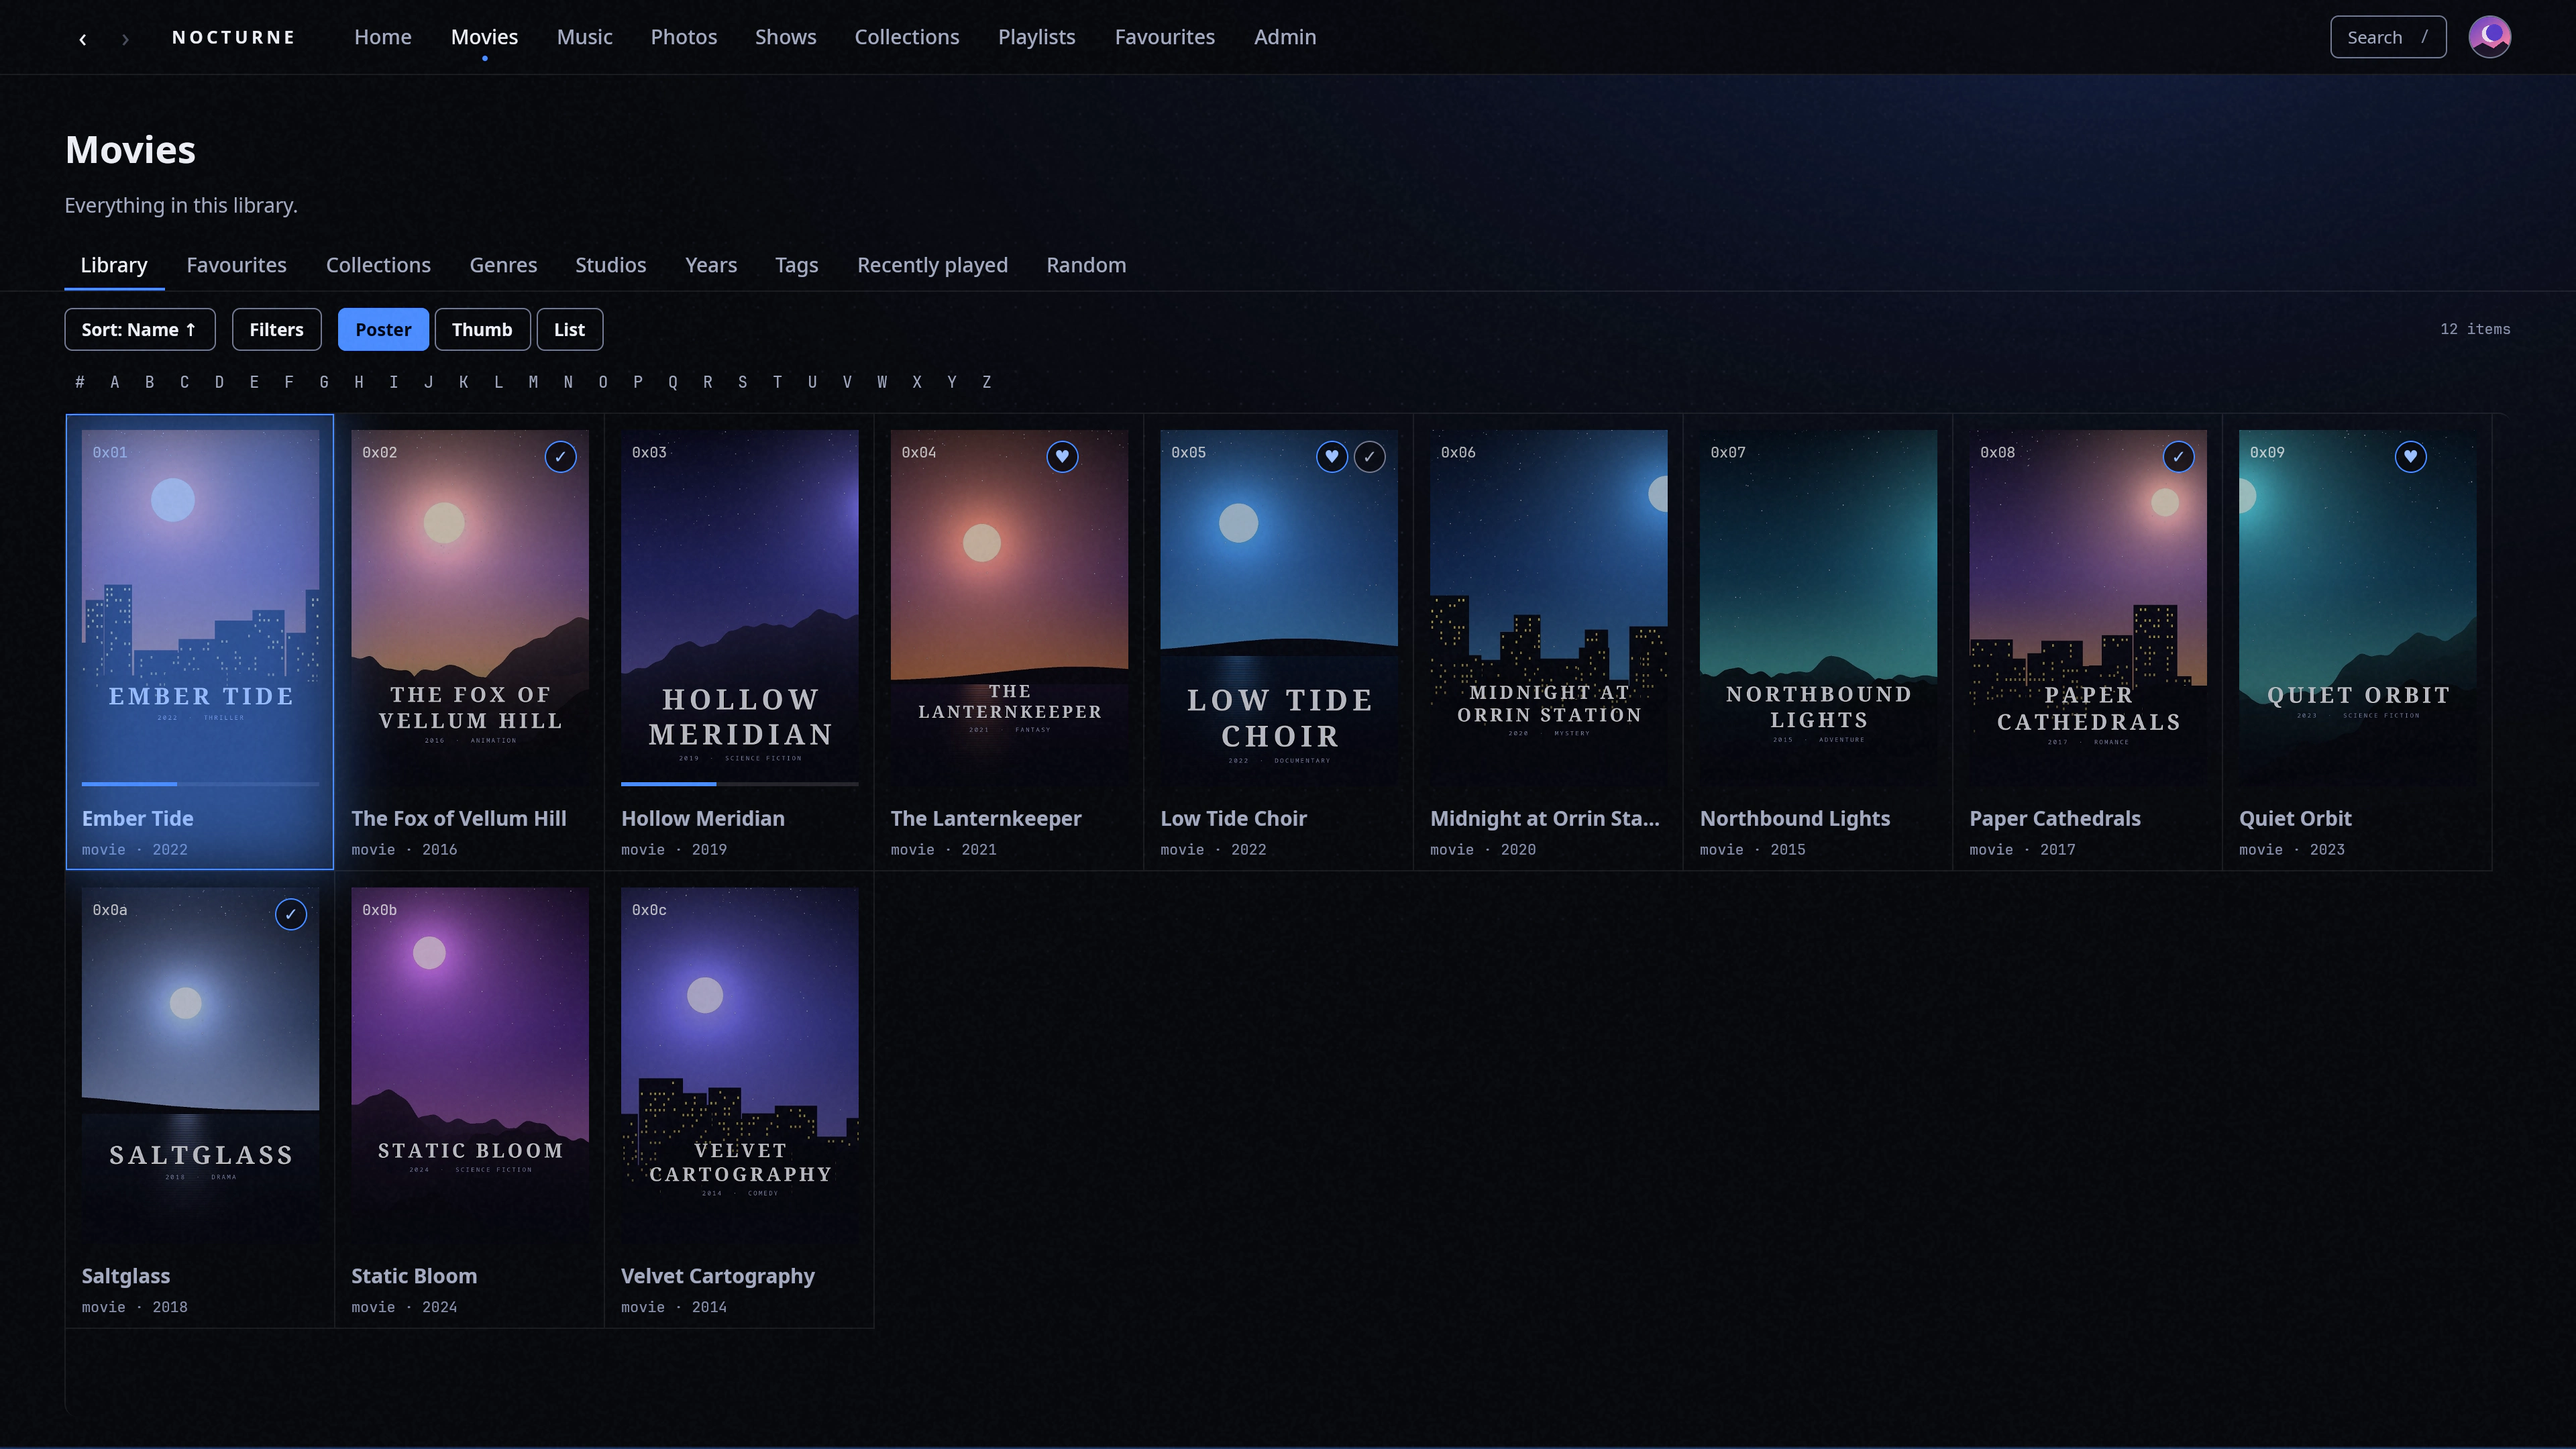
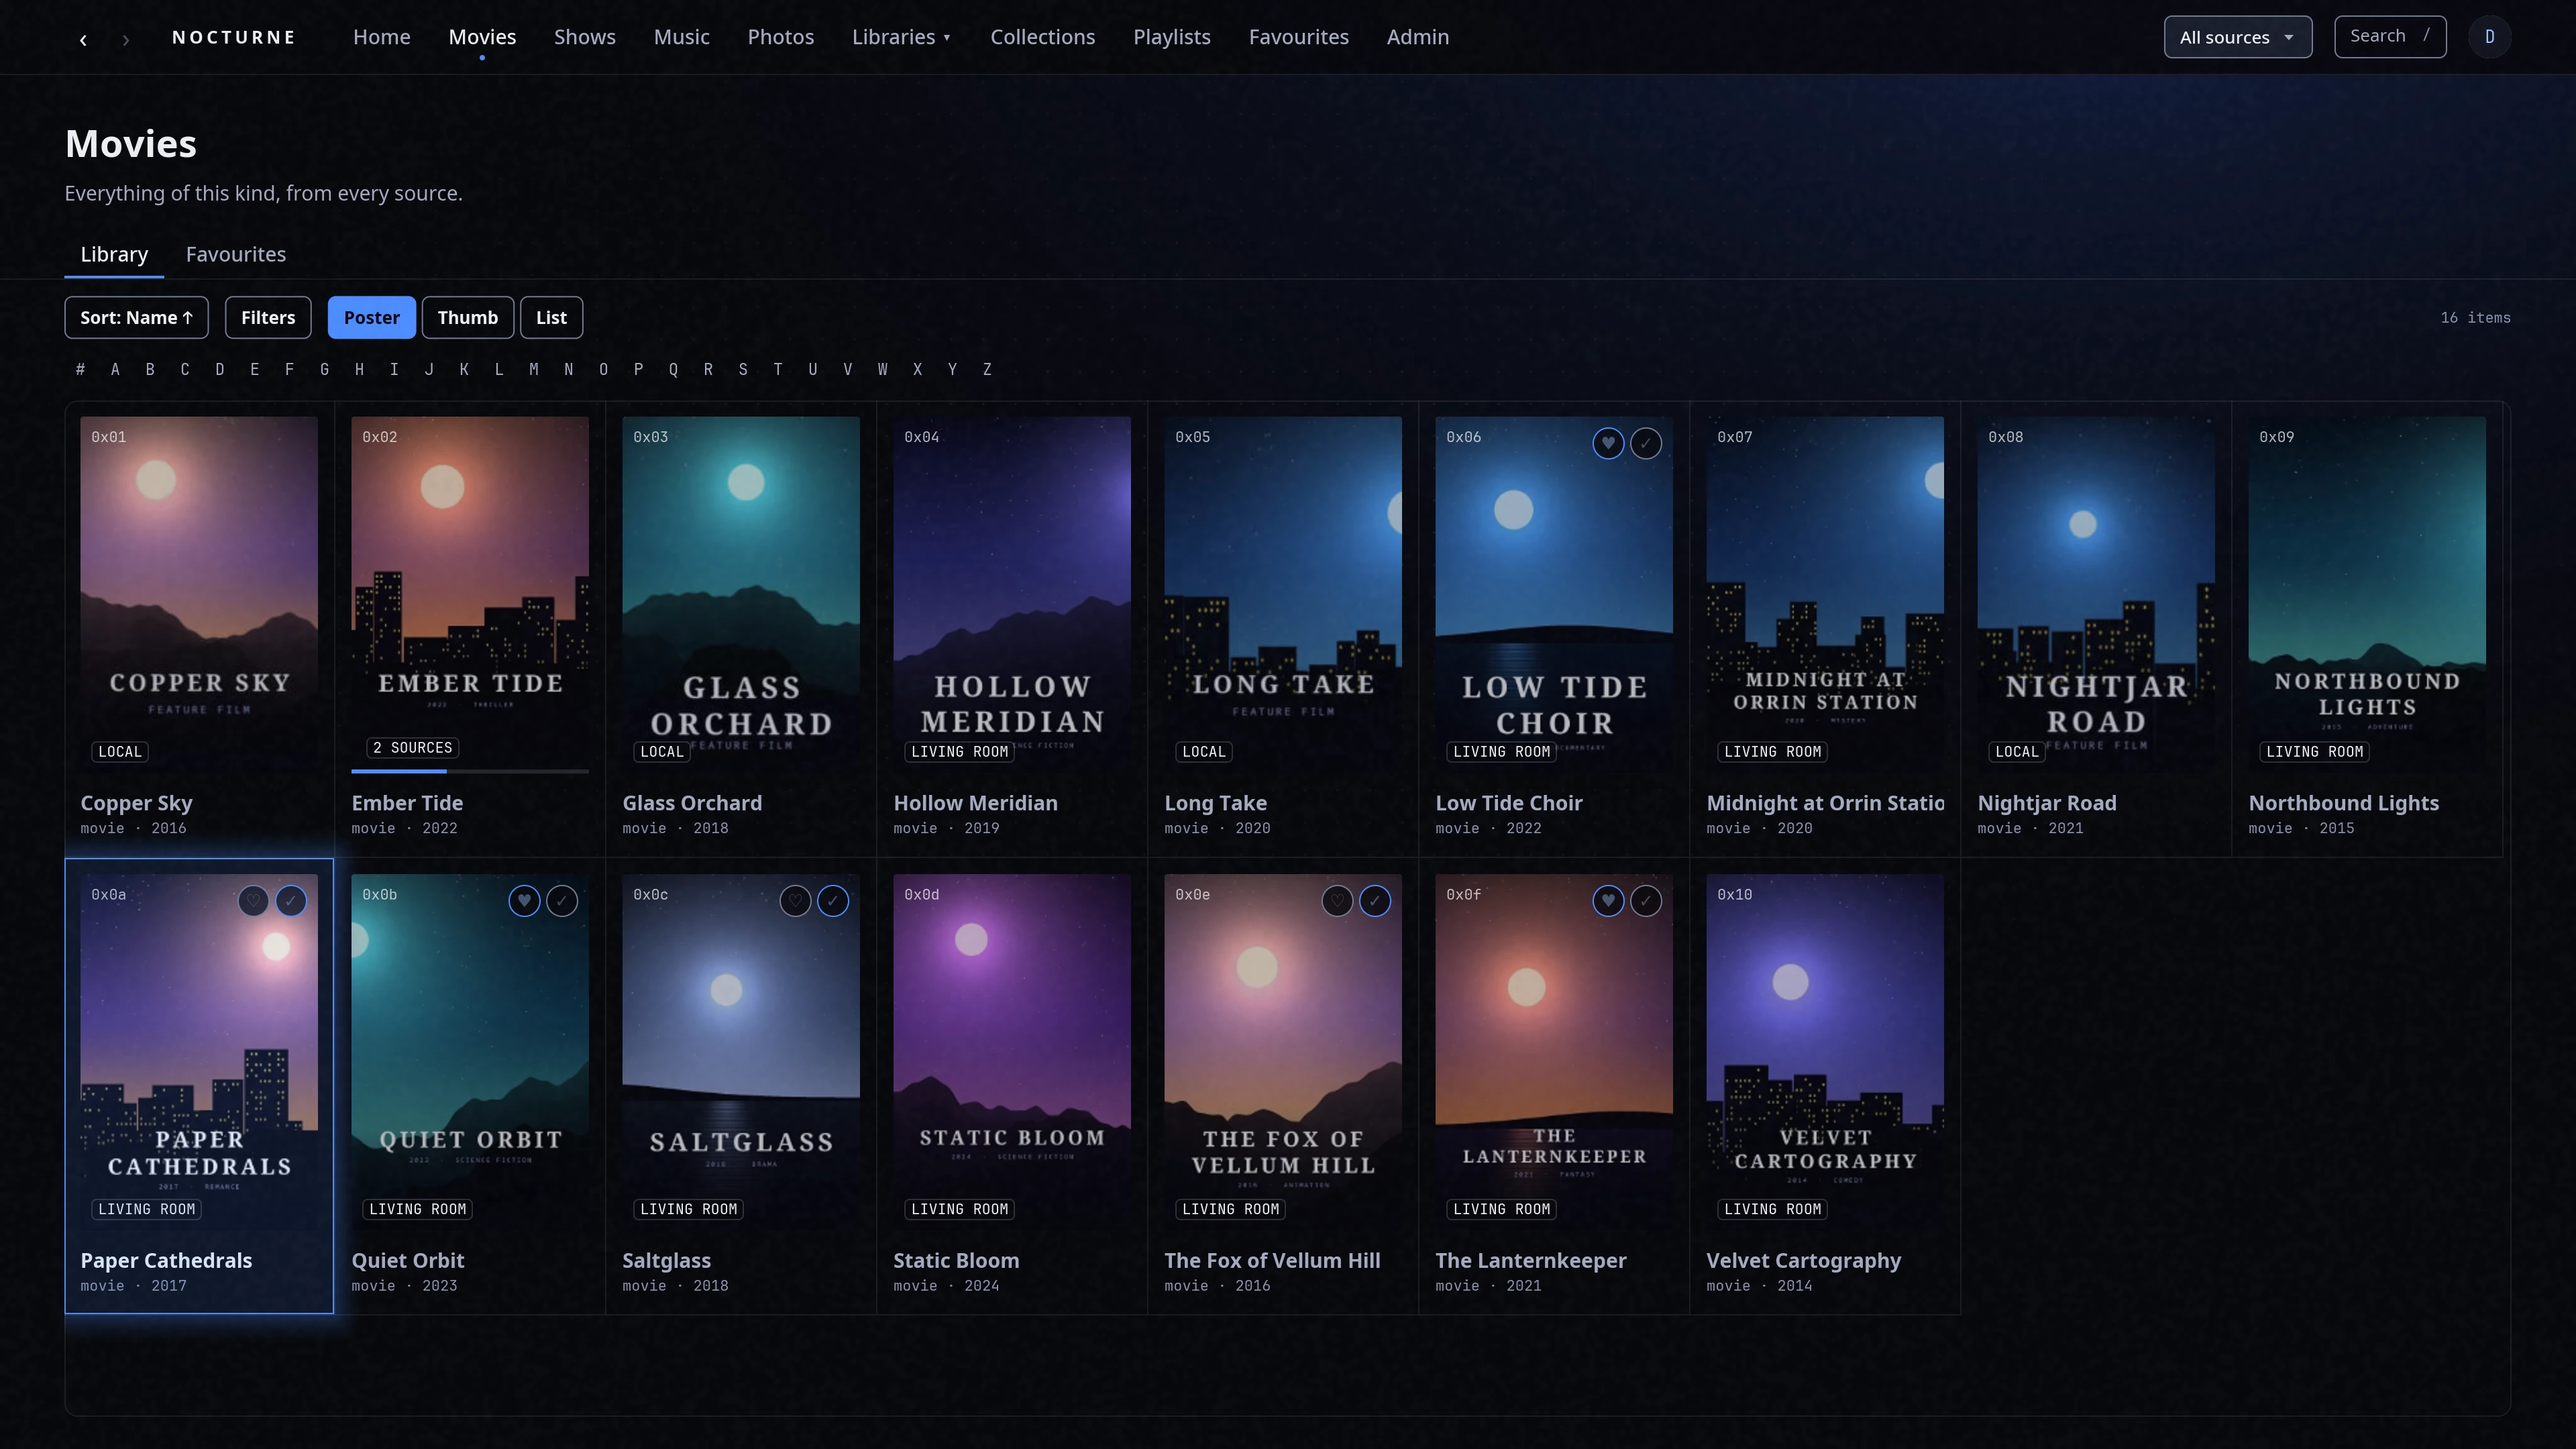
README: 0.3.0 screenshots from the demo library

diff --git a/README.md b/README.md
@@ -16,18 +16,18 @@ yet ([docs/PLATFORMS.md](docs/PLATFORMS.md)). See [docs/ROADMAP.md](docs/ROADMAP
 
 ## Screenshots
 
-Captured from 0.2.0 (the earlier interface) at 3840x2160 against a generated demo library, not personal media. They
-will be replaced with 0.3 captures; the layout and colours are the same.
+Captured from 0.3.0 at 3840x2160 against a generated demo library (two demo servers and a demo folder), not personal media.
 
 |                                                           |                                                               |
 | --------------------------------------------------------- | ------------------------------------------------------------- |
-| ![Who's watching](docs/screenshots/picker.webp)           | ![Home](docs/screenshots/home.webp)                           |
-| ![Library](docs/screenshots/library.webp)                 | ![Movie detail](docs/screenshots/detail.webp)                 |
-| ![Series](docs/screenshots/series.webp)                   | ![Season episodes](docs/screenshots/series-episodes.webp)     |
-| ![Search](docs/screenshots/search.webp)                   | ![Player](docs/screenshots/player.webp)                       |
+| ![Home: local and server items in one library](docs/screenshots/home.webp) | ![Library with the source filter](docs/screenshots/library.webp) |
+| ![Versions and sources picker](docs/screenshots/detail.webp) | ![Season episodes](docs/screenshots/series-episodes.webp)  |
+| ![Search across sources](docs/screenshots/search.webp)    | ![Player](docs/screenshots/player.webp)                       |
+| ![Video loading overlay](docs/screenshots/loading.webp)   | ![First-run setup](docs/screenshots/onboarding.webp)          |
+| ![Sources](docs/screenshots/sources.webp)                 | ![Local folders](docs/screenshots/local-folders.webp)         |
 | ![Settings](docs/screenshots/settings.webp)               | ![Settings drop-down](docs/screenshots/settings-dropdown.webp) |
-| ![Account menu](docs/screenshots/account-menu.webp)       | ![Admin dashboard](docs/screenshots/admin.webp)               |
-| ![Admin users](docs/screenshots/admin-users.webp)         | ![Admin scheduled tasks](docs/screenshots/admin-scheduled-tasks.webp) |
+| ![Who's watching](docs/screenshots/picker.webp)           | ![Account menu](docs/screenshots/account-menu.webp)           |
+| ![Admin dashboard](docs/screenshots/admin.webp)           |                                                               |
 
 ## What it does
 
